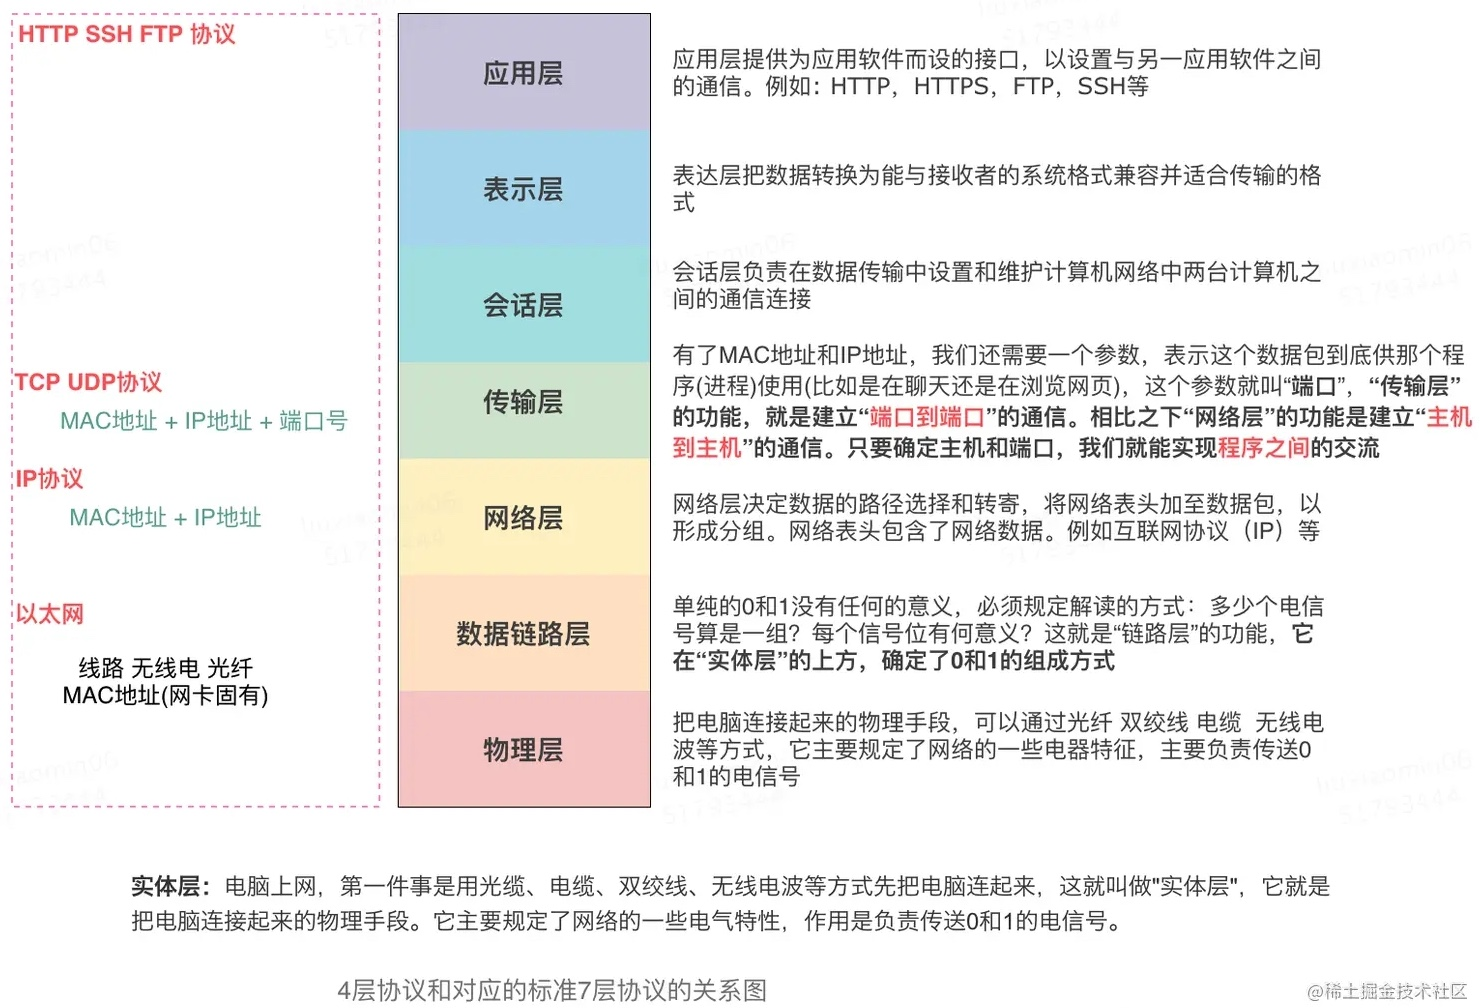
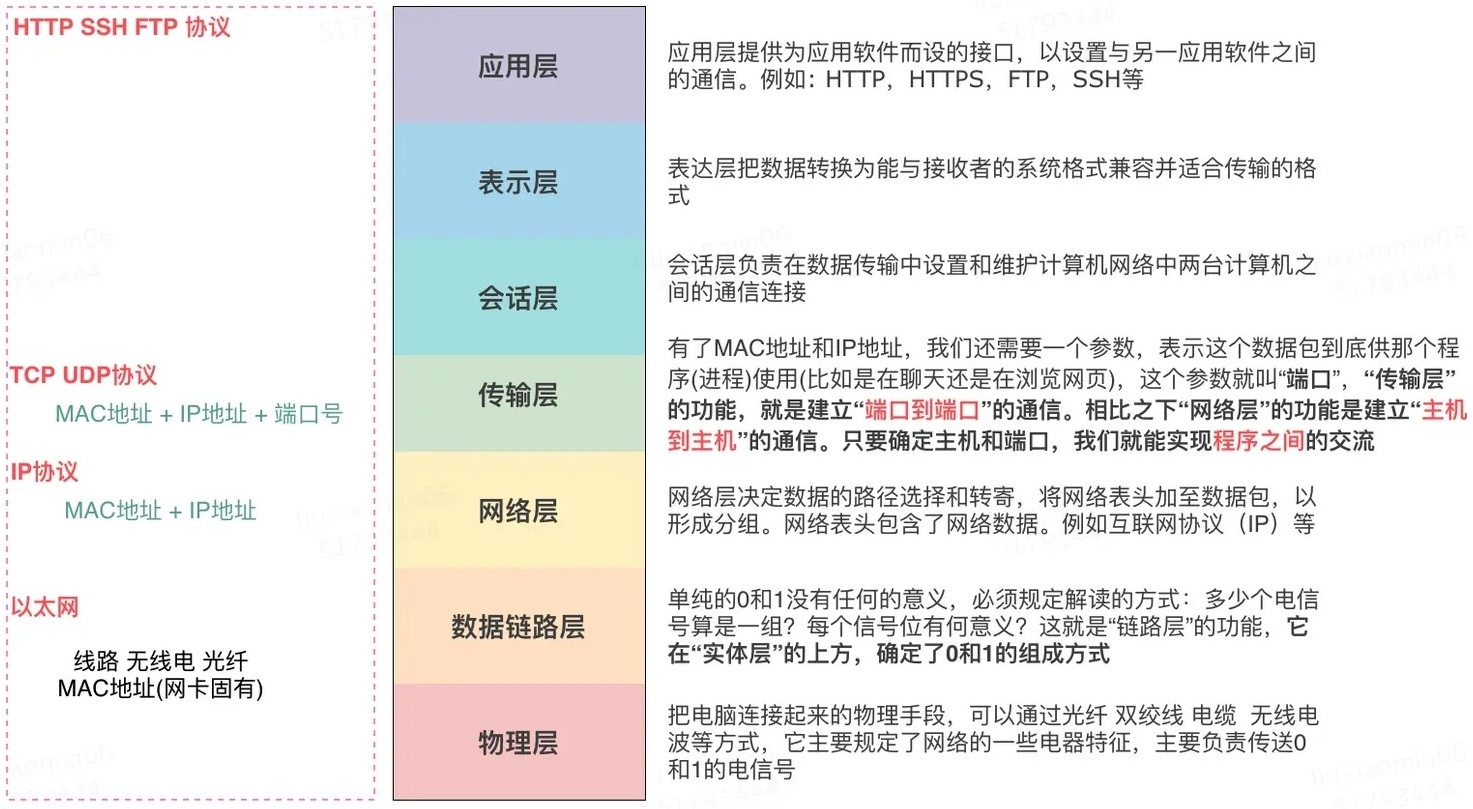
修改教程细节

diff --git a/docs/g-vue/h-路由.md b/docs/g-vue/h-路由.md
@@ -64,18 +64,25 @@ app.mount('#app')
 Vue中组件的管理
 
 ```shell
-.
-├── src
-│   ├── components     # 通用组件
-│   ├── pages          # 页面组件
-│   │   ├── recipes.vue
-│   │   ├── todoes.vue
-│   │   └── user.vue
-│   ├── router         # 路由配置
-│   ├── App.vue
-│   └── main.ts
-...
+src
+├── assets                     # 全局样式
+├── App.vue
+├── components                 # 通用组件
+│   ├── product-detail.vue
+│   └── recipe-detail.vue
+├── pages                      # 页面组件
+│   ├── products.vue
+│   ├── recipes.vue
+│   ├── todos.vue
+│   └── user.vue
+├── router                     # 路由配置
+│   └── index.ts
+└── main.ts
 ```
+
+* 页面组件通常保存在`pages`和`viwes`文件夹内。
+
+### 路由导航
 
 路由配置中，创建路由与页面的映射
 
@@ -84,18 +91,44 @@ const router = createRouter({
   history: createWebHistory(),
   routes: [
     {
-      path: '/',
-      component: Recipes,
+      path: '/',          // 重定向根路由
+      redirect: '/user',
     },
     {
-      path: '/todoes',
-      component: Todoes,
+      path: '/user',      // 表示路由路径
+      component: User,    // 表示映射的页面组件
     },
     {
-      path: '/user',
-      component: User,
+      name: 'todos',      // 可以给路由起名字
+      path: '/todos',
+      component: Todos,
     },
+    ...
   ],
 })
+```
+
+* 重定向可以指定路径打开后默认跳转的页面。重定向根路由可以指定，根路径默认跳转的页面。
+* 路由名字也可以用于页面跳转。
+
+在页面中使用路由组件
+
+```vue
+<script setup lang="ts">
+import { RouterLink, RouterView } from 'vue-router'
+</script>
+
+<template>
+  <div class="nav">
+    <!-- 声明式导航 -->
+    <RouterLink class="nav-link" to="/user">用户</RouterLink>
+    <RouterLink class="nav-link" :to="{ path: '/todos' }">待办事项</RouterLink>
+    <RouterLink class="nav-link" :to="{ name: 'recipes' }">食谱</RouterLink>
+    <RouterLink class="nav-link" :to="{ name: 'products' }">商品</RouterLink>
+  </div>
+	<!-- 展示区 -->
+  <RouterView />
+</template>
+
 ```
 

diff --git a/docs/d-js/d-ajax/f-http.md b/docs/d-js/d-ajax/f-http.md
@@ -141,10 +141,8 @@ HTTP请求方法，属于HTTP协议中的一部分，用来表明要对服务器
 | `PATCH`  | 在服务器更新资源（客户端提供改变的属性）。       |
 | `DELETE` | 从服务器删除资源。                               |
 
-> [!warning]
->
-> 1. `POST`/`PUT`/`PATCH`携带请求体的数据格式是一致的。
-> 2. `GET`/`DELETE`请求的格式是一致的，不携带请求体，请求参数在URL中。
+* `POST`/`PUT`/`PATCH`携带请求体的数据格式是一致的。
+* `GET`/`DELETE`请求的格式是一致的，不携带请求体，请求参数在URL中。
 
 [HTTP全部请求方法](https://developer.mozilla.org/zh-CN/docs/Web/HTTP/Reference/Methods)
 

diff --git a/docs/c-css/13-弹性.md b/docs/c-css/13-弹性.md
@@ -267,8 +267,10 @@ flowchart LR
 
 `vw`尺寸的换算
 $$
-VW = \frac{PX}{设计稿单位视口宽度} \\
-VH = \frac{PX}{设计稿单位视口高度}
+\begin{aligned}
+VW &= \frac{PX}{设计稿单位视口宽度} \\
+VH &= \frac{PX}{设计稿单位视口高度}
+\end{aligned}
 $$
 * [px转换为视口工具](https://cssunitconverter.vercel.app/)
 
